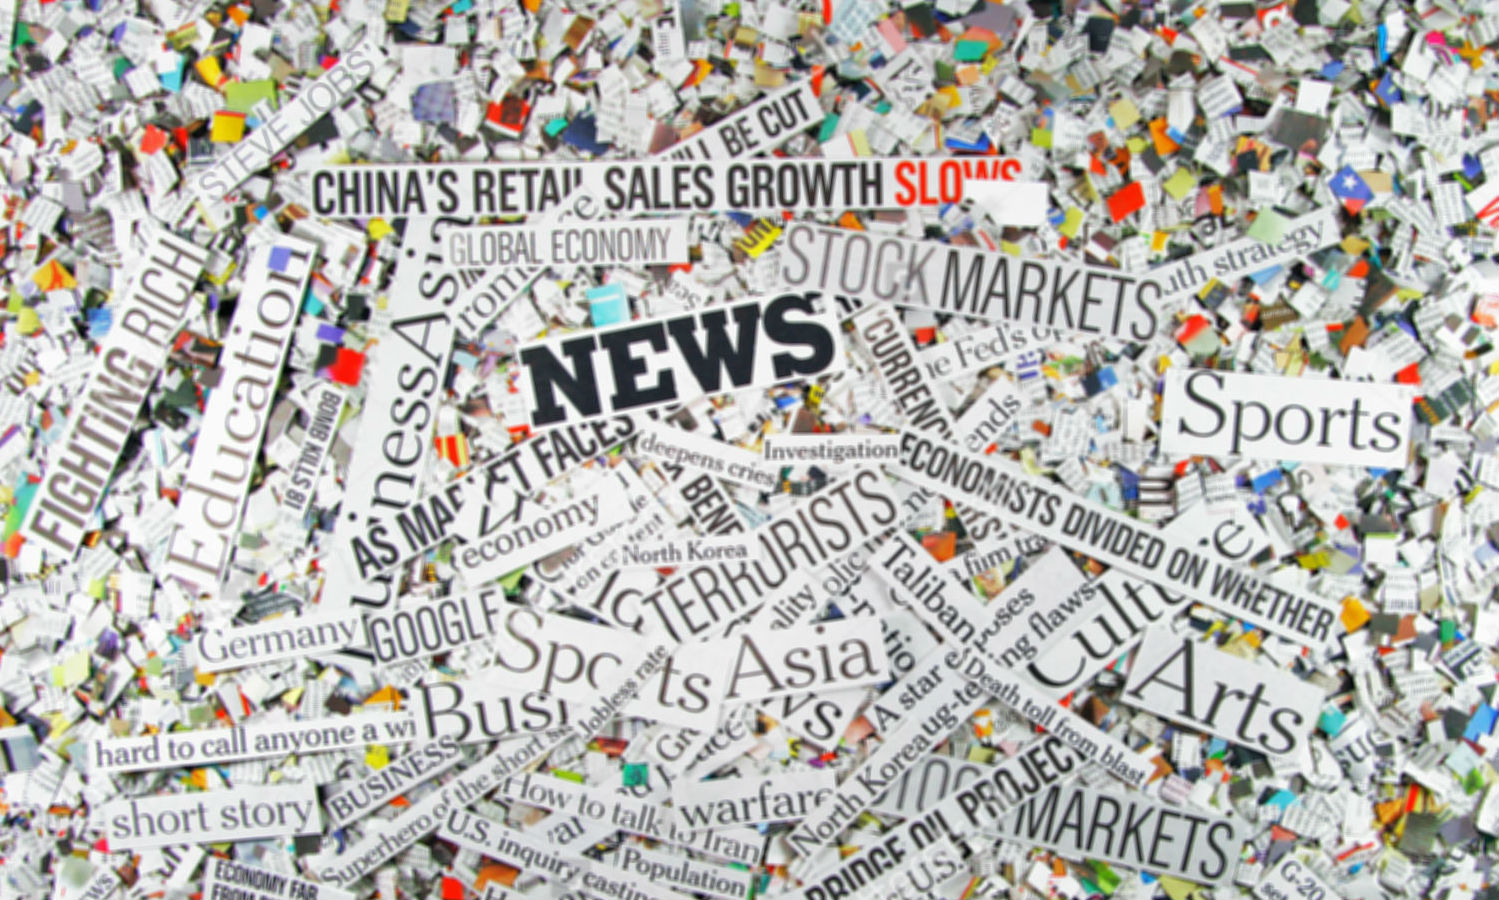
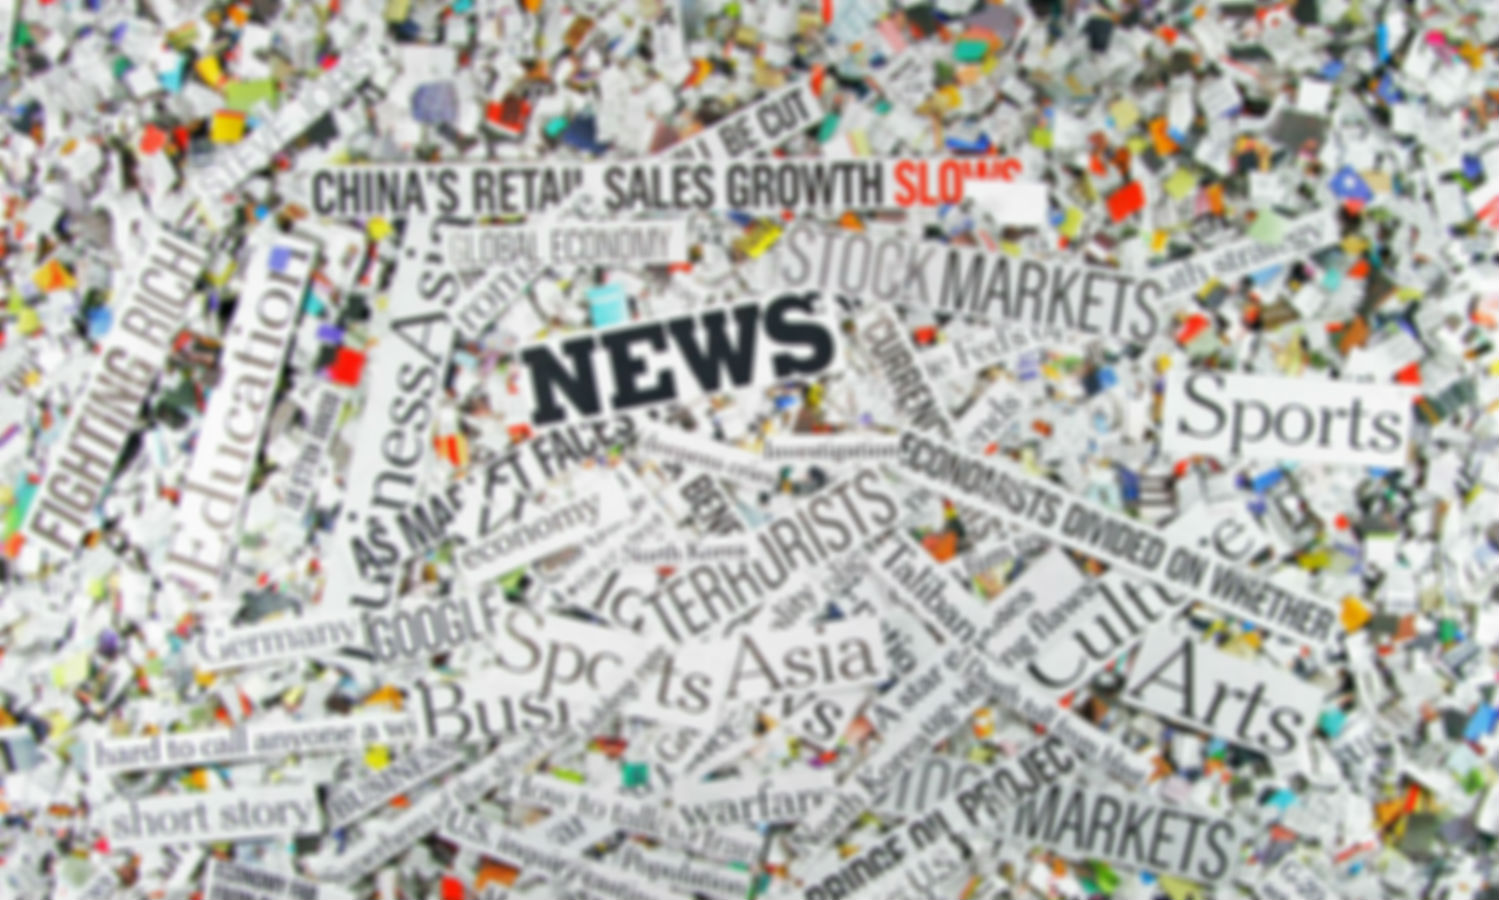
fix login page background

diff --git a/public/css/auth.css b/public/css/auth.css
@@ -1,14 +1,30 @@
 body {
   background-image: url("../img/login_background.jpg");
   background-size: 120%;
-  background-repeat: no-repeat; }
+  background-repeat: no-repeat;
+  position: relative; }
+
+.backdrop {
+  position: absolute;
+  top: 0;
+  left: 0;
+  background-color: rgba(0, 0, 0, 0.5);
+  width: 100%;
+  height: 100%;
+  z-index: 1; }
+
+.container {
+  width: 100%;
+  position: absolute;
+  z-index: 2; }
 
 form {
-  box-shadow: 0 0 15px 5px #7f8c8d;
-  background-color: #fff;
+  box-shadow: 0 0 15px 0 #7f8c8d;
+  background-color: rgba(0, 0, 0, 0.5);
+  color: #fff;
   width: 350px;
   padding: 8px 16px 2px 16px;
-  margin: 20% auto;
+  margin: 15% auto 0 auto;
   border: none;
   border-radius: 5px; }
   form .btn {

diff --git a/public/css/auth.scss b/public/css/auth.scss
@@ -2,13 +2,29 @@ body{
   background-image: url('../img/login_background.jpg');
   background-size: 120%;
   background-repeat: no-repeat;
+  position: relative;
+}
+.backdrop{
+  position: absolute;
+  top:0;
+  left:0;
+  background-color: rgba(0,0,0,0.5);
+  width:100%;
+  height:100%;
+  z-index: 1;
+}
+.container{
+  width:100%;
+  position: absolute;
+  z-index:2;
 }
 form{
-  box-shadow: 0 0 15px 5px #7f8c8d;
-  background-color: #fff;
+  box-shadow: 0 0 15px 0 #7f8c8d;
+  background-color: rgba(0,0,0,0.5);
+  color: #fff;
   width: 350px;
   padding: 8px 16px 2px 16px;
-  margin: 20% auto;
+  margin: 15% auto 0 auto;
   border: none;
   border-radius: 5px;
   .btn{

diff --git a/resources/views/admin/auth/signup.blade.php b/resources/views/admin/auth/signup.blade.php
@@ -22,32 +22,32 @@
         @endif
         <div class="form-group">
             <label for="fullname">Full Name</label>
-            <input type="text" class="form-control" name="fullname" id="fullname" placeholder="Full Name..."
+            <input type="text" class="form-control" name="fullname" id="fullname" placeholder="Nguyen Van A"
                    value="{!! old('fullname') !!}">
         </div>
         <div class="form-group">
             <label for="email">Email</label>
-            <input type="email" class="form-control" name="email" id="email" placeholder="Email..."
+            <input type="email" class="form-control" name="email" id="email" placeholder="e.g. example@gmail.com"
                    value="{!! old('email') !!}">
         </div>
         <div class="form-group">
-            <label for="username">User</label>
-            <input type="text" class="form-control" name="username" id="username" placeholder="User Name..."
+            <label for="username">User Name</label>
+            <input type="text" class="form-control" name="username" id="username" placeholder=""
                    value="{!! old('username') !!}">
         </div>
         <div class="form-group">
             <label for="password">Password</label>
-            <input type="password" class="form-control" name="password" id="password" placeholder="Password...">
+            <input type="password" class="form-control" name="password" id="password" placeholder="">
         </div>
         <div class="form-group">
             <label for="confirm-password">Confirm Password</label>
             <input type="password" class="form-control" name="confirm_password" id="confirm_password"
-                   placeholder="Confirm Password...">
+                   placeholder="">
             <div class="errors" style="display: none">* Your password is not matched</div>
         </div>
         <div class="form-group">
             <label for="tel">Phone</label>
-            <input type="tel" class="form-control" name="tel" id="tel" placeholder="Phone number..."
+            <input type="tel" class="form-control" name="tel" id="tel" placeholder="e.g. +84..."
                    value="{!! old('tel') !!}">
         </div>
         <div class="form-group">

diff --git a/resources/views/admin/auth/master.blade.php b/resources/views/admin/auth/master.blade.php
@@ -19,6 +19,7 @@
     @yield("scripts")
 </head>
 <body>
+<div class="backdrop"></div>
 <div class="container">
     @yield("content")
 </div>
